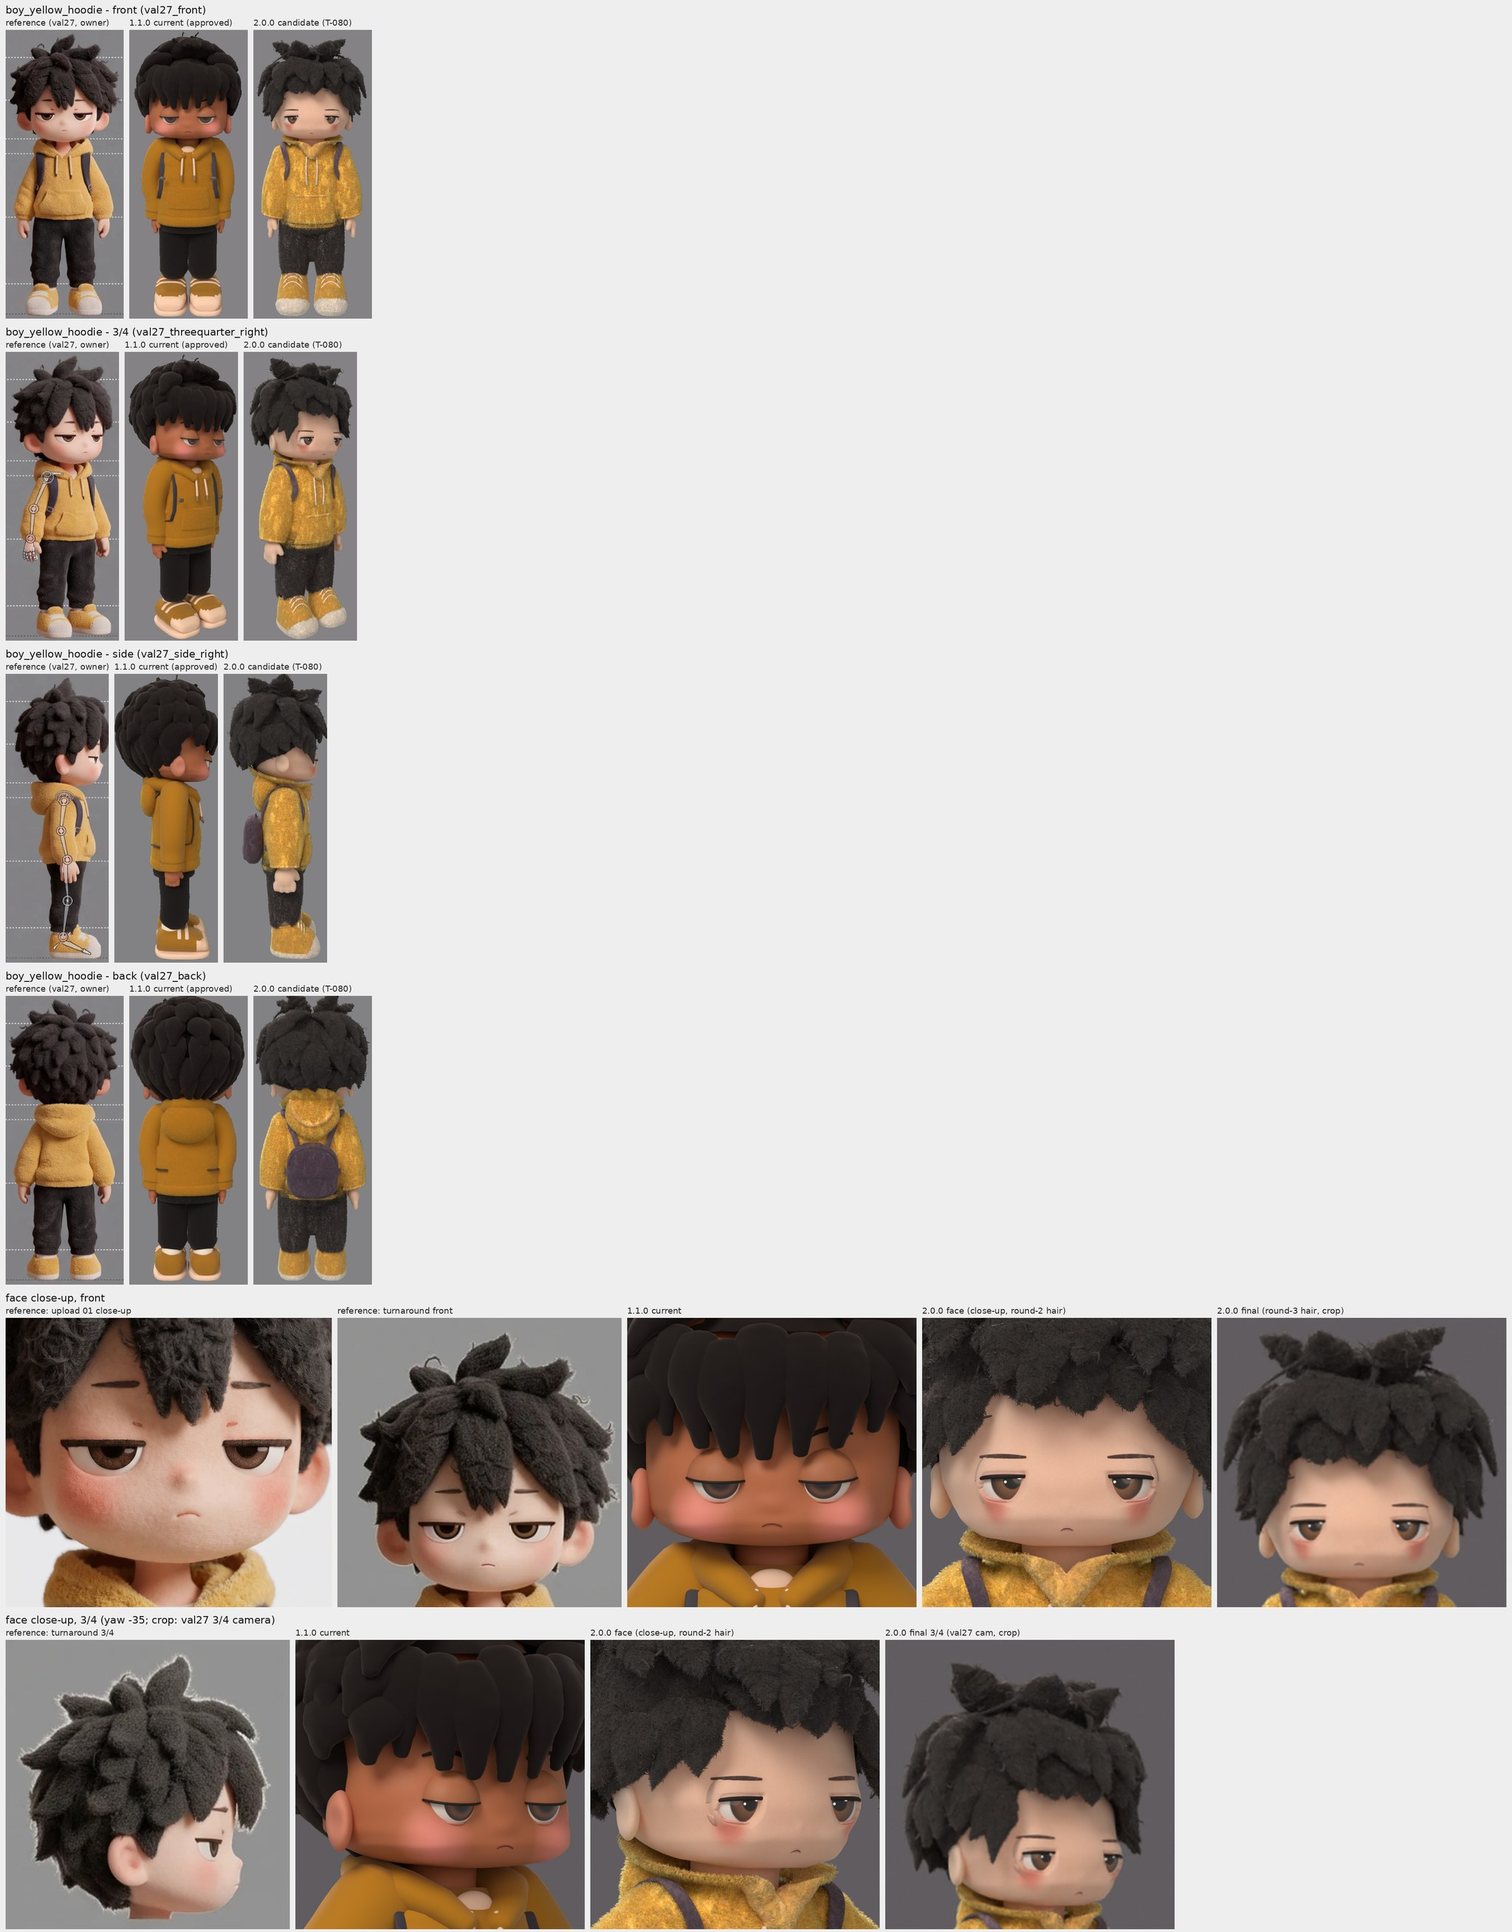
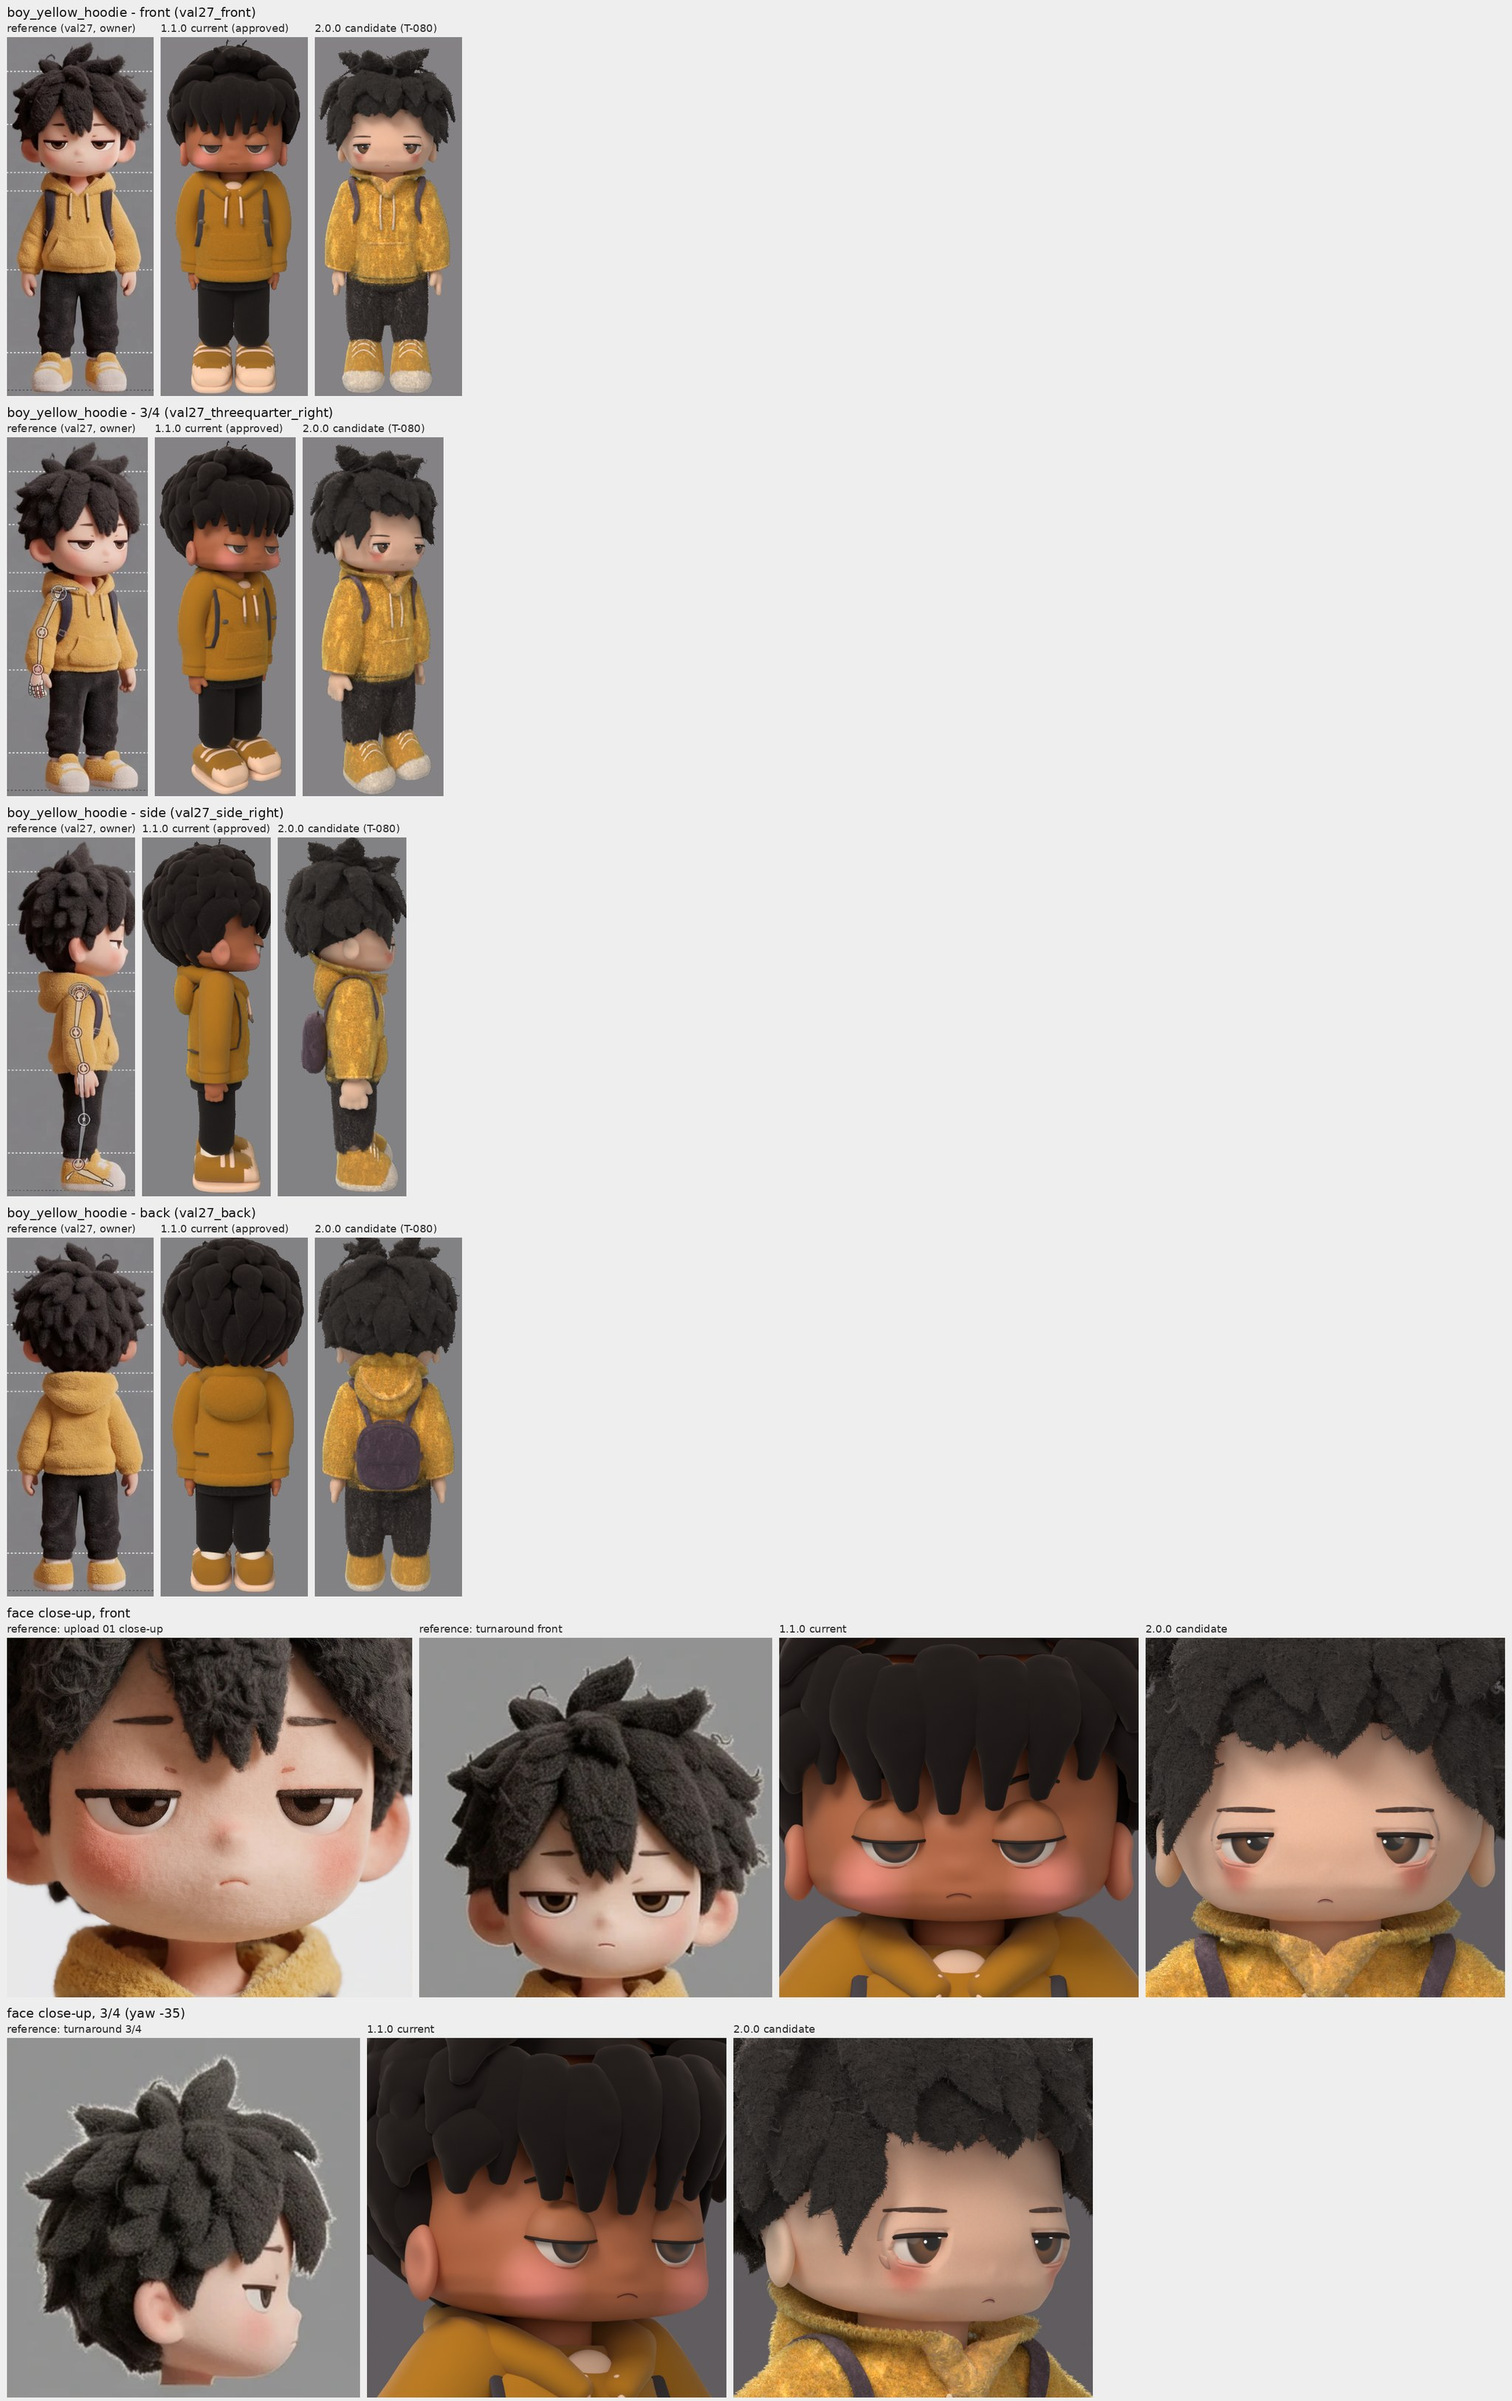
T-080: round-3 face close-ups (full resolution), sheets and report updated
Claude-Session: https://claude.ai/code/session_01NPjxePHct5G6sAum5chRjY

diff --git a/docs/evaluation/characters/T-080/make_sheets.py b/docs/evaluation/characters/T-080/make_sheets.py
@@ -7,8 +7,8 @@ Body views: the reference and the aligned render panel of the fidelity tool's pe
 same cameras, 640 px / 32 spp, character_neutral/1, compare variant = arms down). 1.1.0 = the render panel of the
 stored T-064 sheets (docs/evaluation/characters/T-064/boy/sheets, the current fidelity baseline renders); 2.0.0 =
 this task's run. Face close-ups: groom_turnaround.py --closeup front / 3/4 (yaw -35), same camera; the 2.0.0
-close-ups were rendered with the round-2 hair (face identical in round 3), so with <fid20_renders_dir> the face rows
-also get head crops of the round-3 fidelity renders (320 x 640, upscaled; no extra still).
+close-ups for the final sheets are the round-3 build's. Optional <fid20_renders_dir> adds head crops of the fidelity
+renders (used only for an interim sheet before the round-3 close-ups were rendered).
 Reference strip: the 2026-11-17 owner turnaround (boy row) and the boy's close-up upload 01."""
 import os
 import sys
@@ -100,7 +100,7 @@ def main():
         flabs.append("2.0.0 final (round-3 hair, crop)")
         qlabs.append("2.0.0 final 3/4 (val27 cam, crop)")
     fr = row(fcells, flabs, "face close-up, front")
-    fq = row(qcells, qlabs, "face close-up, 3/4 (yaw -35; crop: val27 3/4 camera)")
+    fq = row(qcells, qlabs, "face close-up, 3/4 (yaw -35" + ("; crop: val27 3/4 camera)" if rend else ")"))
     stack([fr, fq], os.path.join(out, "sheet_face.jpg"))
     stack(rows + [fr, fq], os.path.join(out, "owner_sheet.jpg"))
     strip = Image.new("RGB", (turn.width, 700), (238, 238, 238))

diff --git a/docs/evaluation/characters/T-080/README.md b/docs/evaluation/characters/T-080/README.md
@@ -41,8 +41,7 @@ How the stills were made:
   - The 2.0.0 panels come from this task's fidelity run with round-3 hair.
   - The 1.1.0 panels are cropped from the stored T-064 baseline sheets (`docs/evaluation/characters/T-064/boy/sheets`). These are the renders the current baseline score of 66.41 was measured on, so no re-render was needed.
 - **Face close-ups:** `groom_turnaround.py --closeup`, front and yaw −35, centre z 0.80, width 0.36 m, 640 px, 32 spp. Both versions were built in this session.
-  - The 2.0.0 close-ups were rendered **before** the switch to round 3, so they show round-2 hair. The face, skin and eyes are the same in round 3.
-  - Round-3 hair on the face is shown in an extra column: a head crop of the round-3 fidelity renders (320 × 640, upscaled, so it is soft). This keeps within the 24-still budget; see §10.
+  - The 2.0.0 close-ups are from the final round-3 build. They were re-rendered after the switch, under the Supervisor's re-render allowance of ≤ 10 stills for the round-3 update; see §10.
 
 ## 3. Files changed
 | Path | Purpose |
@@ -187,7 +186,7 @@ Tool caveats (data outside this write-set):
 1. **Eyes too small.** The fidelity eye area is 0.56 × the reference. The reference eyes are larger almond shapes with more white showing. This is face v2 data (`eyes.radius_m`, lid gaps). I did not change it because it is the approved T-065 state.
 2. **Cheeks/face.** The reference face is wider and rounder at the cheeks, with strong rosy blush patches. 2.0.0's cheeks are narrower, and its blush is smaller and paler.
 3. **Faint ring around each eye.** This is the socket/lid edge in the face v2 skin, visible in the front close-up. Known from T-065.
-4. **Hair (round 3).** Much closer than round 2: upright pointed crown leaves from a top whorl, and a central fringe clump toward the brows (face sheet, last column). Still different:
+4. **Hair (round 3).** Much closer than round 2: upright pointed crown leaves from a top whorl, and a central fringe clump toward the brows (face sheet). Still different:
    - The outline is larger and wider than the reference (hair outline log2 +0.57).
    - The crown leaves are thinner and more scattered than the reference's few broad petals.
    - The side/back mass is fuller.
@@ -209,14 +208,18 @@ Branch `t-080-claude-boy-2-0-0`:
 - `53ae8ac`: sheets, fidelity, scripts;
 - `5405684`: report, doc-links fix (first READY, round-2 hair);
 - `ee610a3`: round-3 hair, fidelity and sheets updated;
-- the report commit (see the RELAY_LOG line).
+- `39aa35c`: report for round 3, final gate;
+- the round-3 close-ups commit (see the RELAY_LOG line).
 
 ## 10. Resource use
 - **Token usage:** not available.
-- **Cycles evidence-quality stills (32 spp): 24 of the 24 allowed.**
-  - 5: 2.0.0 round-3 fidelity (compare), used.
-  - 5: 2.0.0 round-2 fidelity (compare); superseded by round 3, kept as the round-2 comparison.
-  - 4: close-ups (2 per version), used.
+- **Cycles evidence-quality stills (32 spp): 26 in total.**
+  - First round, 19 of the 24 allowed:
+    - 5: 2.0.0 round-2 fidelity (compare); superseded by round 3, kept as the round-2 comparison.
+    - 4: close-ups (2 per version); the 2.0.0 pair was superseded by round 3.
+  - Round-3 update, 7 of the ≤ 10 the Supervisor allowed:
+    - 5: round-3 fidelity (compare), used.
+    - 2: round-3 face close-ups, used.
   - **10 wasted:**
     - 5: a first 2.0.0 fidelity run on the A-pose master. I built with `--no-compare`, so there was no compare variant. Score 60.65, not comparable.
     - 5: a 1.1.0 fidelity run with the same mistake (60.13).
@@ -233,5 +236,5 @@ python3 tools/fidelity/run.py --character boy_yellow_hoodie --build $W/b20/boy_y
 # 1.1.0 for the close-ups: build_character.py --spec …/boy_yellow_hoodie.spec.json --override …/1.1.0.override.json --out $W/b11
 for v in 11 20; do $B -b --factory-startup -P pipeline/charsys/tools/groom_turnaround.py -- $W/b$v/boy_yellow_hoodie_master.blend \
   <empty {"views":[]}> $W/cu$v --height 640 --samples 32 --closeup 'front:0:0:0,0,0.80:0.36' --closeup 'q34:-35:0:0,0,0.80:0.36'; done
-python3 docs/evaluation/characters/T-080/make_sheets.py $W/fid20/sheets $W/cu11 $W/cu20 docs/evaluation/characters/T-080/sheets $W/fid20/renders
+python3 docs/evaluation/characters/T-080/make_sheets.py $W/fid20/sheets $W/cu11 $W/cu20 docs/evaluation/characters/T-080/sheets
 ```
